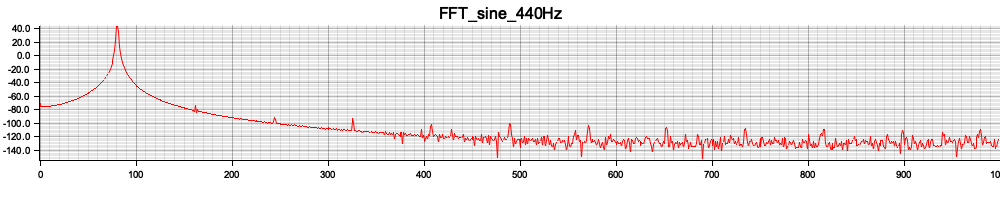
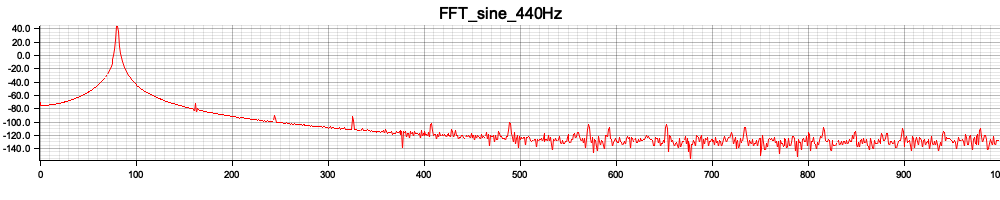
Fix windowing function implementation
This closes #206

diff --git a/crates/augmented/audio/audio-processor-analysis/src/fft_processor.rs b/crates/augmented/audio/audio-processor-analysis/src/fft_processor.rs
@@ -19,7 +19,7 @@ fn hann_window(size: usize) -> Vec<f32> {
 }
 
 pub struct FftProcessor {
-    input_buffer: Vec<Complex<f32>>,
+    input_buffer: Vec<f32>,
     fft_buffer: Vec<Complex<f32>>,
     scratch: Vec<Complex<f32>>,
     cursor: usize,
@@ -47,8 +47,10 @@ impl FftProcessor {
         let mut planner = FftPlanner::new();
         let fft = planner.plan_fft(size, direction);
 
-        let mut buffer = Vec::with_capacity(size);
-        buffer.resize(size, 0.0.into());
+        let mut input_buffer = Vec::with_capacity(size);
+        input_buffer.resize(size, 0.0.into());
+        let mut fft_buffer = Vec::with_capacity(size);
+        fft_buffer.resize(size, 0.0.into());
 
         let scratch_size = fft.get_inplace_scratch_len();
         let mut scratch = Vec::with_capacity(scratch_size);
@@ -58,8 +60,8 @@ impl FftProcessor {
         let step_len = (size as f32 * (1.0 - overlap_ratio)) as usize;
 
         Self {
-            input_buffer: buffer.clone(),
-            fft_buffer: buffer,
+            input_buffer,
+            fft_buffer,
             window,
             scratch,
             size,
@@ -83,9 +85,20 @@ impl FftProcessor {
     }
 
     fn perform_fft(&mut self) {
-        for (sample_index, sample) in self.input_buffer.iter().enumerate() {
-            self.fft_buffer[sample_index] = *sample;
+        let start_idx = ((self.cursor as i32) - 1 - self.size as i32) as usize % self.size;
+        for i in 0..self.size {
+            let index = (start_idx + i) % self.size;
+            let sample = self.input_buffer[index];
+
+            let magnitude = sample * self.window[i];
+            assert!(!magnitude.is_nan());
+            let complex = Complex::from_polar(magnitude, 0.0);
+            assert!(!complex.re.is_nan());
+            assert!(!complex.im.is_nan());
+
+            self.fft_buffer[i] = complex;
         }
+
         self.fft
             .process_with_scratch(&mut self.fft_buffer, &mut self.scratch);
     }
@@ -96,12 +109,7 @@ impl SimpleAudioProcessor for FftProcessor {
 
     fn s_process(&mut self, sample: Self::SampleType) -> Self::SampleType {
         self.has_changed = false;
-        let magnitude = sample * self.window[self.cursor];
-        assert!(!magnitude.is_nan());
-        let complex = Complex::from_polar(magnitude, 0.0);
-        assert!(!complex.re.is_nan());
-        assert!(!complex.im.is_nan());
-        self.input_buffer[self.cursor] = complex;
+        self.input_buffer[self.cursor] = sample;
         self.cursor += 1;
 
         if self.cursor == self.step_len {
@@ -162,5 +170,12 @@ mod test {
             "FFT_sine_440Hz",
             output,
         );
+    }
+
+    #[test]
+    fn test_usize_cast() {
+        let i = -1;
+        let i = i as usize % 2;
+        assert_eq!(i, 1)
     }
 }
